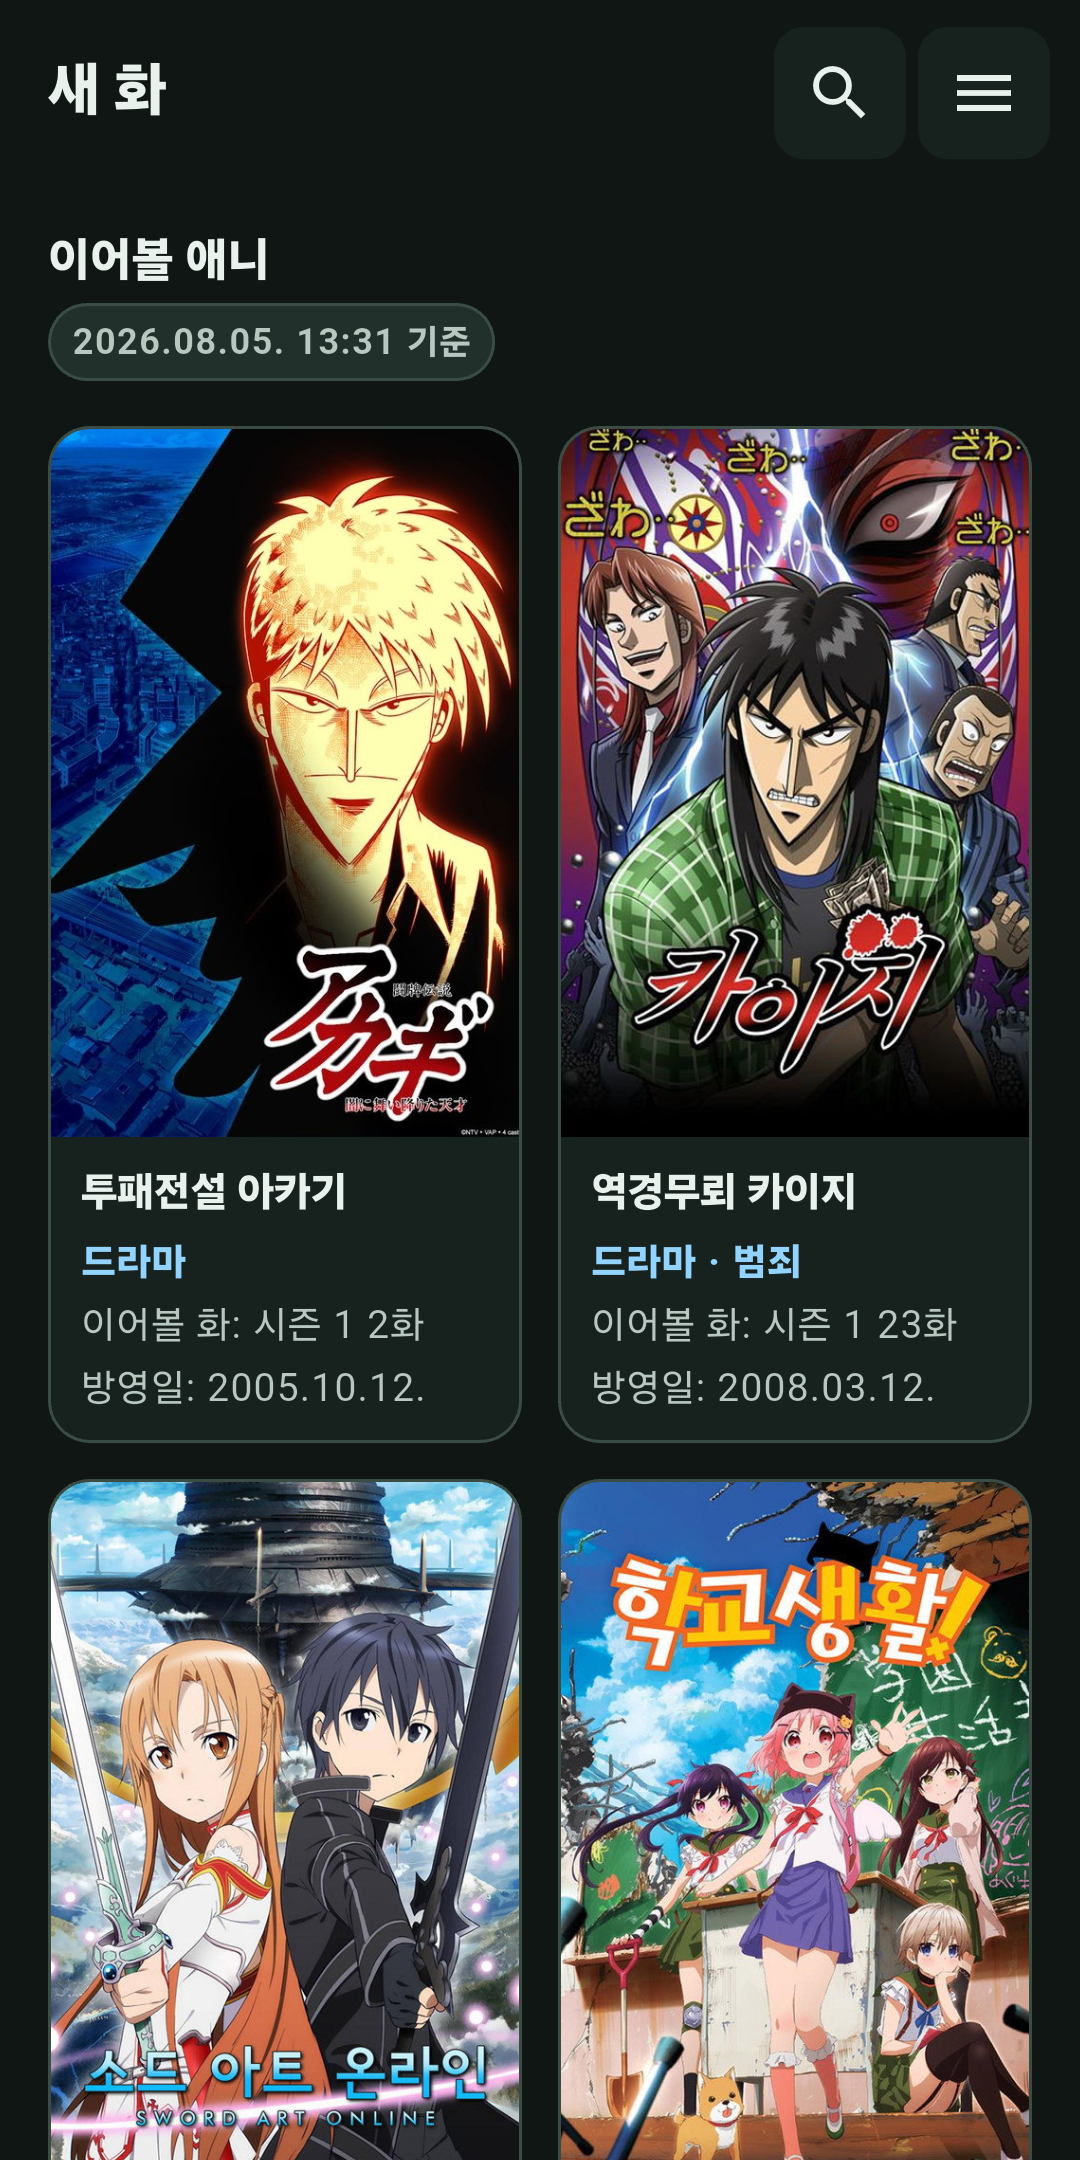
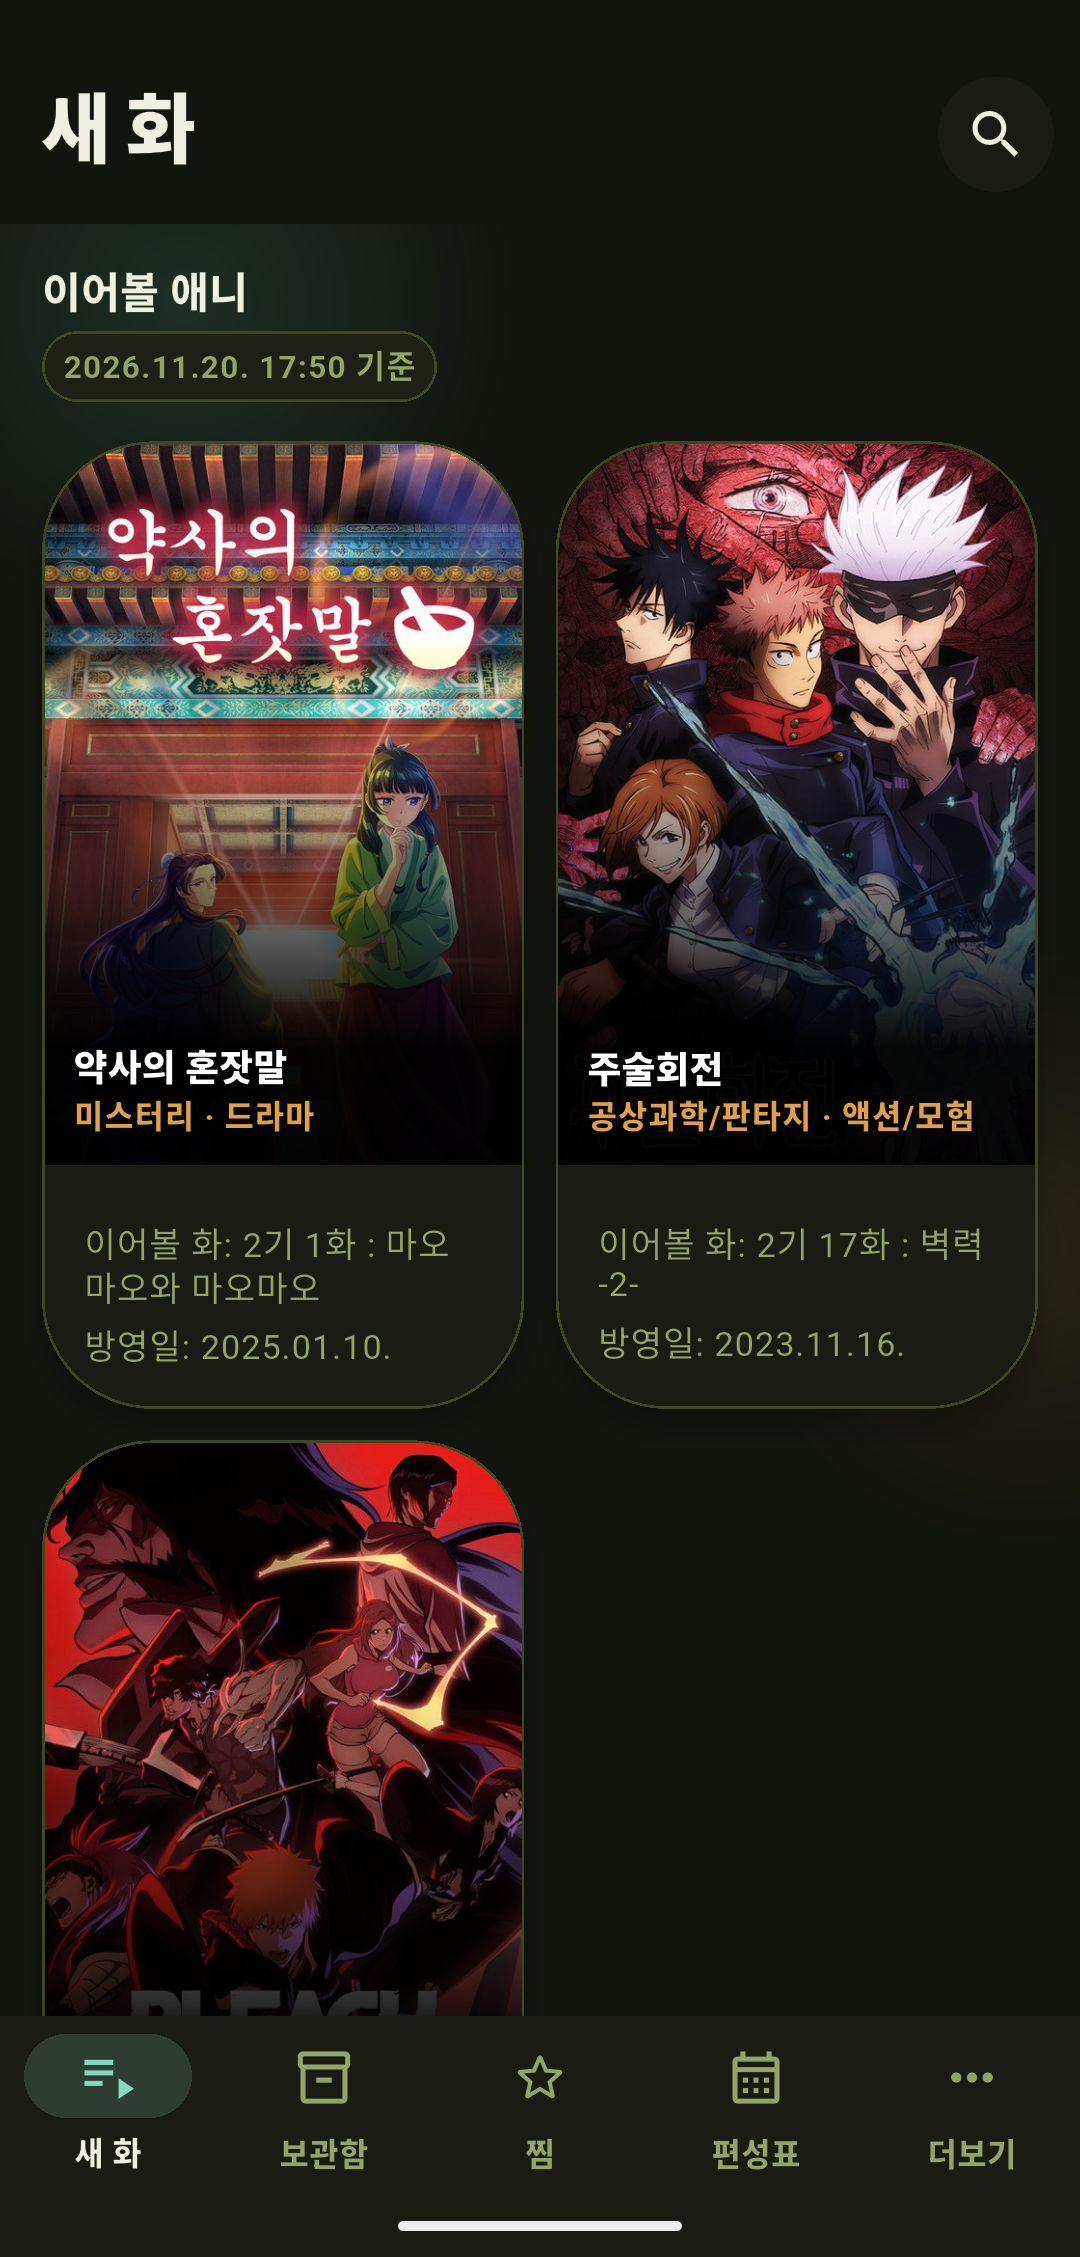
스토어 등록 자료를 1.0.13 기준으로 다시 만듦
스토어에 걸려 있던 스크린샷이 2026.08.05., 기능 그래픽이 2026.07.13. 파일이라
11.16. 디자인 개편 전 화면이었다. 지금 앱과 다른 앱처럼 보인다. 다운로드가
10+에 머무는 이유 가운데 하나다.

스크린샷 여섯 장을 1.0.13 화면으로 다시 찍었다. 두 번째에 '지금 볼 수 있는
곳'을 둔다. 다른 시청기록 앱에 없는 기능이라 목록에서 제일 먼저 눈에 띄어야
한다. 맨 위 상태바(시간·와이파이·배터리)는 잘라냈다. 자를 높이(83px)는
밝은 픽셀이 끝나는 줄을 재서 정했다.

기능 그래픽은 HTML로 다시 짜고 헤드리스 Chrome으로 1024x500에 맞춰 뽑는다.
원본을 store_assets/feature_graphic.html로 남겨 다음에 고쳐 쓸 수 있게 한다.
여기에는 작품 포스터를 쓰지 않는다. 앱 안에서 표시하는 것과 달리 기능
그래픽은 만들어 배포하는 홍보 자료라 성격이 다르다. 앱의 색과 카드 모양,
글자만 썼다.

등록 문구는 docs/play_store_listing.md에 새로 적는다. 기존
play_store_submission_pack.md는 1.0.0 기준이라 손대지 않고 남겨 둔다.
앱 이름에 검색어를 넣는 안, 짧은 설명 두 안, 긴 설명 전문을 담았다.
어떤 말로 검색하는지는 추정이므로 Play Console의 실제 유입 검색어를 보고
정하라고 적어 두었다.

diff --git a/anime_checker_flutter/store_assets/feature_graphic.html b/anime_checker_flutter/store_assets/feature_graphic.html
@@ -1,0 +1,97 @@
+<!doctype html>
+<!--
+  Play 기능 그래픽(1024x500) 원본. 브라우저로 열어 1024x500으로 캡처한다.
+  작품 포스터는 쓰지 않는다. 스토어 스크린샷과 달리 이 그림은 앱 화면이 아니라
+  만들어 배포하는 홍보 자료라, 권리 문제를 피해 앱의 색과 모양만 쓴다.
+  색은 lib/src/core/theme/theme.dart 의 matcha 팔레트 값이다.
+-->
+<html lang="ko">
+<head>
+<meta charset="utf-8">
+<style>
+  :root {
+    --bg: #12140E;
+    --card: #1A1C14;
+    --ink: #F0F0E0;
+    --muted: #94A468;
+    --mint: #5AB898;
+    --gold: #E0A04A;
+    --line: #3E481D;
+  }
+  * { margin: 0; padding: 0; box-sizing: border-box; }
+  body {
+    width: 1024px; height: 500px; overflow: hidden;
+    background: var(--bg);
+    font-family: "Noto Sans KR", "Malgun Gothic", sans-serif;
+    display: flex; align-items: center;
+    position: relative;
+  }
+  /* 앱 배경의 번짐을 그대로 옮긴다 */
+  .glow { position: absolute; border-radius: 50%; filter: blur(90px); }
+  .glow.a { width: 420px; height: 420px; background: var(--mint); opacity: .16; left: -90px; top: -140px; }
+  .glow.b { width: 380px; height: 380px; background: var(--gold); opacity: .10; right: 120px; bottom: -160px; }
+
+  .left { padding: 0 0 0 68px; width: 560px; position: relative; z-index: 2; }
+  .title { font-size: 62px; font-weight: 900; color: var(--ink); letter-spacing: -2.5px; line-height: 1.02; }
+  .sub { margin-top: 20px; font-size: 25px; font-weight: 700; color: var(--ink); line-height: 1.42; letter-spacing: -.6px; }
+  .sub b { color: var(--mint); font-weight: 900; }
+  .tags { margin-top: 26px; display: flex; gap: 9px; }
+  .tag {
+    padding: 9px 17px; border-radius: 999px;
+    border: 1px solid var(--line); color: var(--muted);
+    font-size: 16px; font-weight: 800;
+  }
+
+  /* 오른쪽: 앱 카드 모양(42px 모서리)만 흉내낸다. 포스터는 넣지 않는다. */
+  .right { position: absolute; right: 56px; top: 50%; transform: translateY(-50%); z-index: 2; }
+  .card {
+    width: 300px; background: var(--card);
+    border: 1px solid var(--line); border-radius: 42px;
+    padding: 26px 28px 28px; box-shadow: 0 18px 44px rgba(0,0,0,.55);
+  }
+  .card .label { font-size: 15px; font-weight: 900; color: var(--mint); letter-spacing: -.3px; }
+  .card .name { margin-top: 10px; font-size: 31px; font-weight: 900; color: var(--ink); letter-spacing: -1.2px; }
+  .card .meta { margin-top: 9px; font-size: 16px; color: var(--muted); font-weight: 600; }
+  .bar { margin-top: 17px; height: 6px; border-radius: 999px; background: #2A3320; overflow: hidden; }
+  .bar i { display: block; width: 68%; height: 100%; border-radius: 999px;
+           background: linear-gradient(90deg, #8FD8C4, var(--mint)); }
+  .where { margin-top: 22px; font-size: 14px; font-weight: 900; color: var(--ink); }
+  .ott { margin-top: 11px; display: flex; flex-wrap: wrap; gap: 7px; }
+  .ott span {
+    padding: 7px 13px; border-radius: 999px;
+    border: 1px solid var(--line); background: #1E2016;
+    font-size: 14px; font-weight: 800; color: var(--ink);
+  }
+</style>
+</head>
+<body>
+  <div class="glow a"></div>
+  <div class="glow b"></div>
+
+  <div class="left">
+    <div class="title">애니 체크</div>
+    <div class="sub">
+      어디까지 봤는지 기록하고,<br>
+      <b>지금 어디서 볼 수 있는지</b>까지.
+    </div>
+    <div class="tags">
+      <div class="tag">광고 없음</div>
+      <div class="tag">가입 없음</div>
+      <div class="tag">무료</div>
+    </div>
+  </div>
+
+  <div class="right">
+    <div class="card">
+      <div class="label">지금 이어볼 차례</div>
+      <div class="name">시즌 2 · 17화</div>
+      <div class="meta">40/59화 · 68%</div>
+      <div class="bar"><i></i></div>
+      <div class="where">지금 볼 수 있는 곳</div>
+      <div class="ott">
+        <span>넷플릭스</span><span>티빙</span><span>웨이브</span>
+      </div>
+    </div>
+  </div>
+</body>
+</html>

diff --git a/docs/play_store_listing.md b/docs/play_store_listing.md
@@ -1,0 +1,131 @@
+# 애니 체크 Play Store 등록 문구
+
+작성일: 2026.11.21. / 기준 버전: 1.0.13+14
+
+`play_store_submission_pack.md`는 2026.07.01. 1.0.0 기준이라 낡았다. 스토어에
+실제로 올릴 문구는 이 문서를 쓴다.
+
+---
+
+## 앱 이름
+
+Play 검색은 제목 가중치가 가장 크다. 지금은 `애니 체크`뿐이라 「애니 시청기록」
+같은 말로 검색하면 걸리지 않는다. 30자까지 쓸 수 있다.
+
+**1안 (권장)**
+
+```text
+애니 체크 - 애니 시청기록 관리
+```
+
+**2안** — 편성표를 앞세울 때
+
+```text
+애니 체크 : 애니 시청기록 · 편성표
+```
+
+**3안** — 지금 이름을 그대로 두고 싶을 때
+
+```text
+애니 체크
+```
+
+> 검색어는 추정이다. Play Console > 사용자 획득 > 검색어에서 실제 유입 검색어를
+> 보고 정하는 쪽이 정확하다.
+
+---
+
+## 짧은 설명 (80자)
+
+스토어 목록과 검색 결과에 제목 바로 아래로 붙는다. 지금 문구
+(`신작 애니, 보관함, 찜, 시청 기록을 한곳에서 관리하세요.`)는 기능 나열이라
+무엇이 다른지가 없다.
+
+**1안 (권장, 56자)**
+
+```text
+본 화까지 기록하고, 넷플릭스·티빙 어디서 보는지까지 한 번에.
+```
+
+**2안 (49자)**
+
+```text
+애니 시청기록과 요일 편성표, 지금 볼 수 있는 곳까지.
+```
+
+---
+
+## 긴 설명
+
+지금 설명에는 이번에 넣은 「지금 볼 수 있는 곳」이 빠져 있다. 다른 시청기록 앱에
+없는 기능이라 맨 위로 올린다.
+
+```text
+애니 체크는 보고 있는 애니와 볼 애니를 정리하는 시청 기록 앱입니다.
+계정 가입도, 광고도 없습니다.
+
+■ 어디서 볼 수 있는지 바로 확인
+작품을 열면 한국에서 지금 볼 수 있는 곳을 보여줍니다. 넷플릭스, 티빙, 웨이브,
+왓챠, 쿠팡플레이, 디즈니+ 가운데 어디에 있는지 찾아다니지 않아도 됩니다.
+보여줄 곳은 환경설정에서 직접 고를 수 있습니다.
+
+■ 어디까지 봤는지 기록
+시즌과 화 단위로 체크하면 다음에 볼 화를 앱이 기억합니다. 극장판과 외전도
+따로 관리합니다.
+
+■ 새 화가 나오면 바로
+보관함에 담아 둔 작품에 새 화가 올라오면 첫 화면에 모아서 보여줍니다.
+새 화가 최근에 나온 작품부터 올라옵니다.
+
+■ 요일 편성표
+이번 주에 실제로 새 화가 나오는 작품만 요일별로 정리합니다. 몇 달 전에 기수가
+끝난 작품이 섞이지 않습니다.
+
+■ 신작 애니와 소식
+분기별 신작을 한국어 제목으로 찾아보고, 애니 관련 소식도 앱 안에서 봅니다.
+
+■ 그 밖에
+- 보관함 · 보류 · 찜으로 나눠 관리
+- 작품별 메모
+- 시청 통계 (본 화 수, 많이 본 장르, 가장 많이 본 작품)
+- JSON 백업과 복원
+- 다크 모드
+
+기록은 기기 안에 저장되고, 백업 파일로 직접 내보낼 수 있습니다.
+검색과 신작, 소식은 외부 데이터 제공자를 통해 불러옵니다.
+
+이 앱은 TMDB API를 사용하지만 TMDB가 보증하거나 인증한 앱이 아닙니다.
+「지금 볼 수 있는 곳」 자료의 출처는 JustWatch입니다.
+```
+
+---
+
+## 스크린샷
+
+`anime_checker_flutter/store_assets/screenshots/`
+
+2026.11.21.에 1.0.13 화면으로 다시 찍었다. 이전 파일은 2026.08.05.로, 디자인을
+전면 개편하기 전 화면이었다.
+
+| 순서 | 화면 | 올리는 이유 |
+|---|---|---|
+| 1 | 보관함 | 앱이 무엇을 하는지 한 장으로 보인다 |
+| 2 | 작품 상세 (지금 볼 수 있는 곳) | 다른 앱에 없는 기능 |
+| 3 | 새 화 | 매일 여는 화면 |
+| 4 | 요일 편성표 | 편성표를 찾아 들어오는 사람용 |
+| 5 | 신작 애니 | 탐색 기능 |
+| 6 | 시청 통계 | 오래 쓸 이유 |
+
+스크린샷은 「큰 표지로 보기」를 켠 상태로 찍었다. 앱 기본값은 꺼짐(한 줄 목록)
+이므로 설치 직후 첫 화면은 스크린샷과 다르다. 환경설정에서 켜면 같아진다.
+
+---
+
+## 저작권 메모
+
+스크린샷에 작품 포스터가 그대로 나온다. 앱 안에서 표시하는 것과 달리 스토어
+스크린샷은 배포하는 홍보 자료라 성격이 다르다.
+
+시청기록 앱이 실제 화면을 그대로 올리는 것은 흔한 방식이라 그대로 두되,
+기능 그래픽(1024x500)에는 포스터를 쓰지 않고 앱 화면 요소와 글자만 썼다.
+권리자 문제 제기가 있으면 포스터를 가린 판으로 교체한다.
